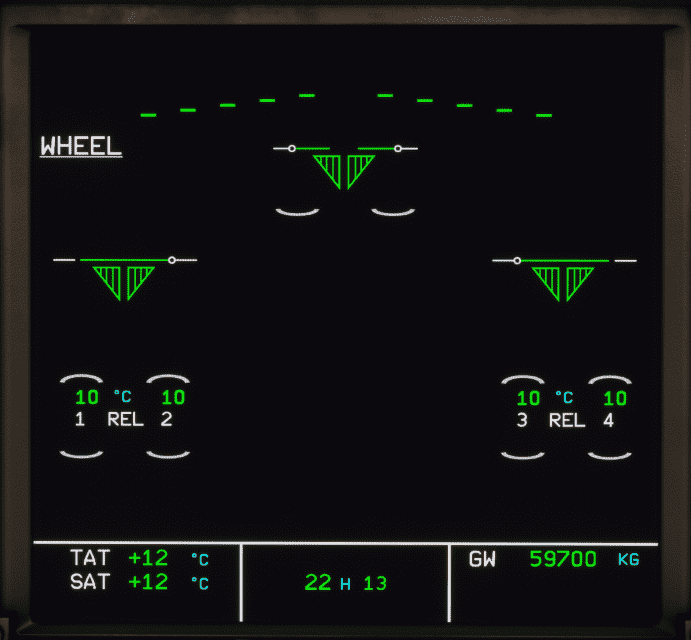
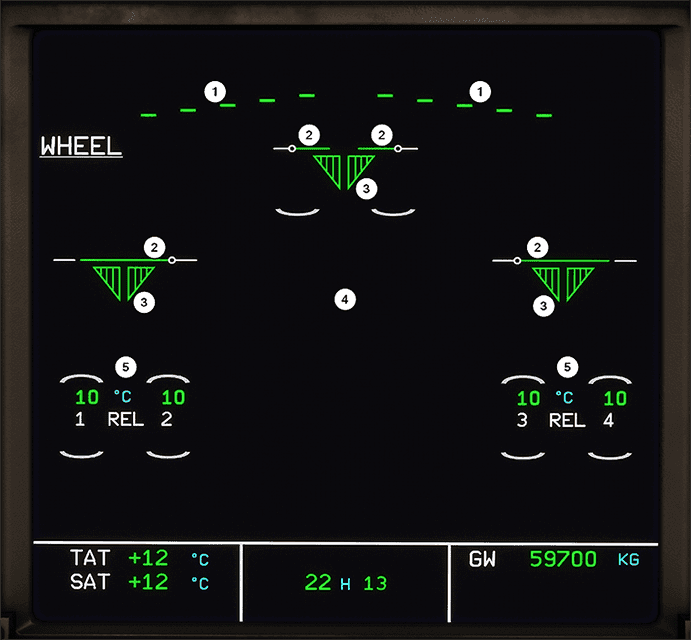
Added WHEEL page info

diff --git a/docs/pilots-corner/a32nx-briefing/ecam/sd/wheel.md b/docs/pilots-corner/a32nx-briefing/ecam/sd/wheel.md
@@ -4,5 +4,30 @@
 
 ![ECAM WHEEL page](../../../assets/a32nx-briefing/ecam/wheel.png "ECAM WHEEL page")
 
-<!-- TODO -->
-
+| Number | Name                              | Variation                    | Meaning                                                                                                                                                      |
+|:-------|:----------------------------------|:-----------------------------|:-------------------------------------------------------------------------------------------------------------------------------------------------------------|
+| 1      | Spoilers and Speedbrakes Position | Green triangle               | The spoiler is deflected by more than 2.5°.                                                                                                                  |
+|        |                                   | Amber triangle               | The spoiler has a fault and is deflected.                                                                                                                    |
+|        |                                   | Green line                   | The spoiler is retracted.                                                                                                                                    |
+|        |                                   | Amber 1                      | The spoiler has a fault and is retracted.                                                                                                                    |
+|        |                                   | Amber X                      | The spoiler position is not valid.                                                                                                                           |
+| 2      | Doors (2x Nose/Left/Right)        | Green Horizontal Line        | Door is locked up.                                                                                                                                           |
+|        |                                   | Amber Diagonal Line          | Door is in transit.                                                                                                                                          |
+|        |                                   | Amber Vertical Line          | Door is fully open.                                                                                                                                          |
+| 3      | Gears (Nose/Left/Right)           | Green triangle               | Landing gear down and locked.                                                                                                                                |
+|        |                                   | Red triangle                 | Landing gear in transit.                                                                                                                                     |
+|        |                                   | No triangle                  | Landing gear up and locked.                                                                                                                                  |
+|        |                                   | Amber crosses                | Landing Gear Control Interface Unit (LGCIU) 1 or 2 failed.                                                                                                   |
+| 4      | Legends                           | UP LOCK (amber, above doors) | Appears when landing gear uplock is engaged when the landing gear is down locked.                                                                            |
+|        |                                   | L/G CTL (amber)              | Appears when landing gear lever and actual position do not agree.                                                                                            |
+|        |                                   | N/W STEERING (amber)         | Appears when nosewheel steering is lost or OFF. Green Y when yellow hydraulic system is available, otherwise amber Y.                                        |
+|        |                                   | ANTI SKID                    | Appears amber when antiskid is lost of OFF. Appears in green if antiskid is available while autobrake, normal braking or alternate braking failure.          |
+|        |                                   | NORM BRK                     | Appears green when autobrake or alt. braking fails, but normal still available. Amber when normal braking is failed. Green or amber G for green hyd. status. |
+|        |                                   | ALTN BRK                     | Appears green in alternate braking mode . Amber when alternate braking is failed.                                                                            |
+|        |                                   | &rarr; ACCU PR               | Appears green with ALTN BRK when Y hydraulic is available. Amber with no arrow when pressure from Y or accu is low.                                          |
+|        |                                   | &larr; ACCU ONLY             | Appears green when alternate braking is pressurized by accu.                                                                                                 |
+|        |                                   | AUTO BRK                     | Appears green when autobrake is armed. Flashes after autobrake disengagement. Appears amber to indicate failure.                                             |
+|        |                                   | LO/MED/MAX                   | Selected autobrake rate.                                                                                                                                     |
+| 5      | Brakes (Left/Right)               | White number                 | Wheel number.                                                                                                                                                |
+|        |                                   | Green arc                    | Appears on hottest wheel when one brake >100°.                                                                                                               |
+|        |                                   | Amber arc                    | Appears when brake >300°.                                                                                                                                    |
